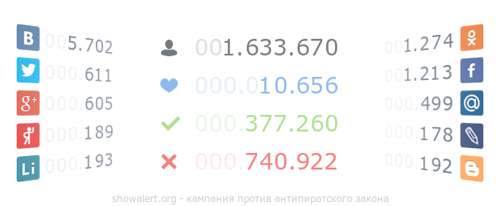
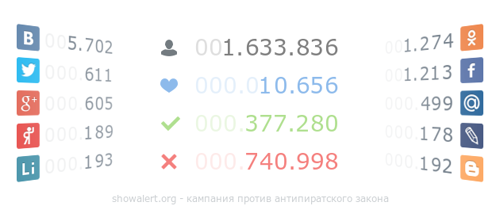
some updates

Changed region(s): [[0.57, 0.1748, 0.69, 0.2621], [0.6, 0.7282, 0.69, 0.8447], [0.6, 0.5534, 0.66, 0.6408]]

diff --git a/votes.js b/votes.js
@@ -1,1 +1,1 @@
-window.lk.votes(25766)
+window.lk.votes(25780)
